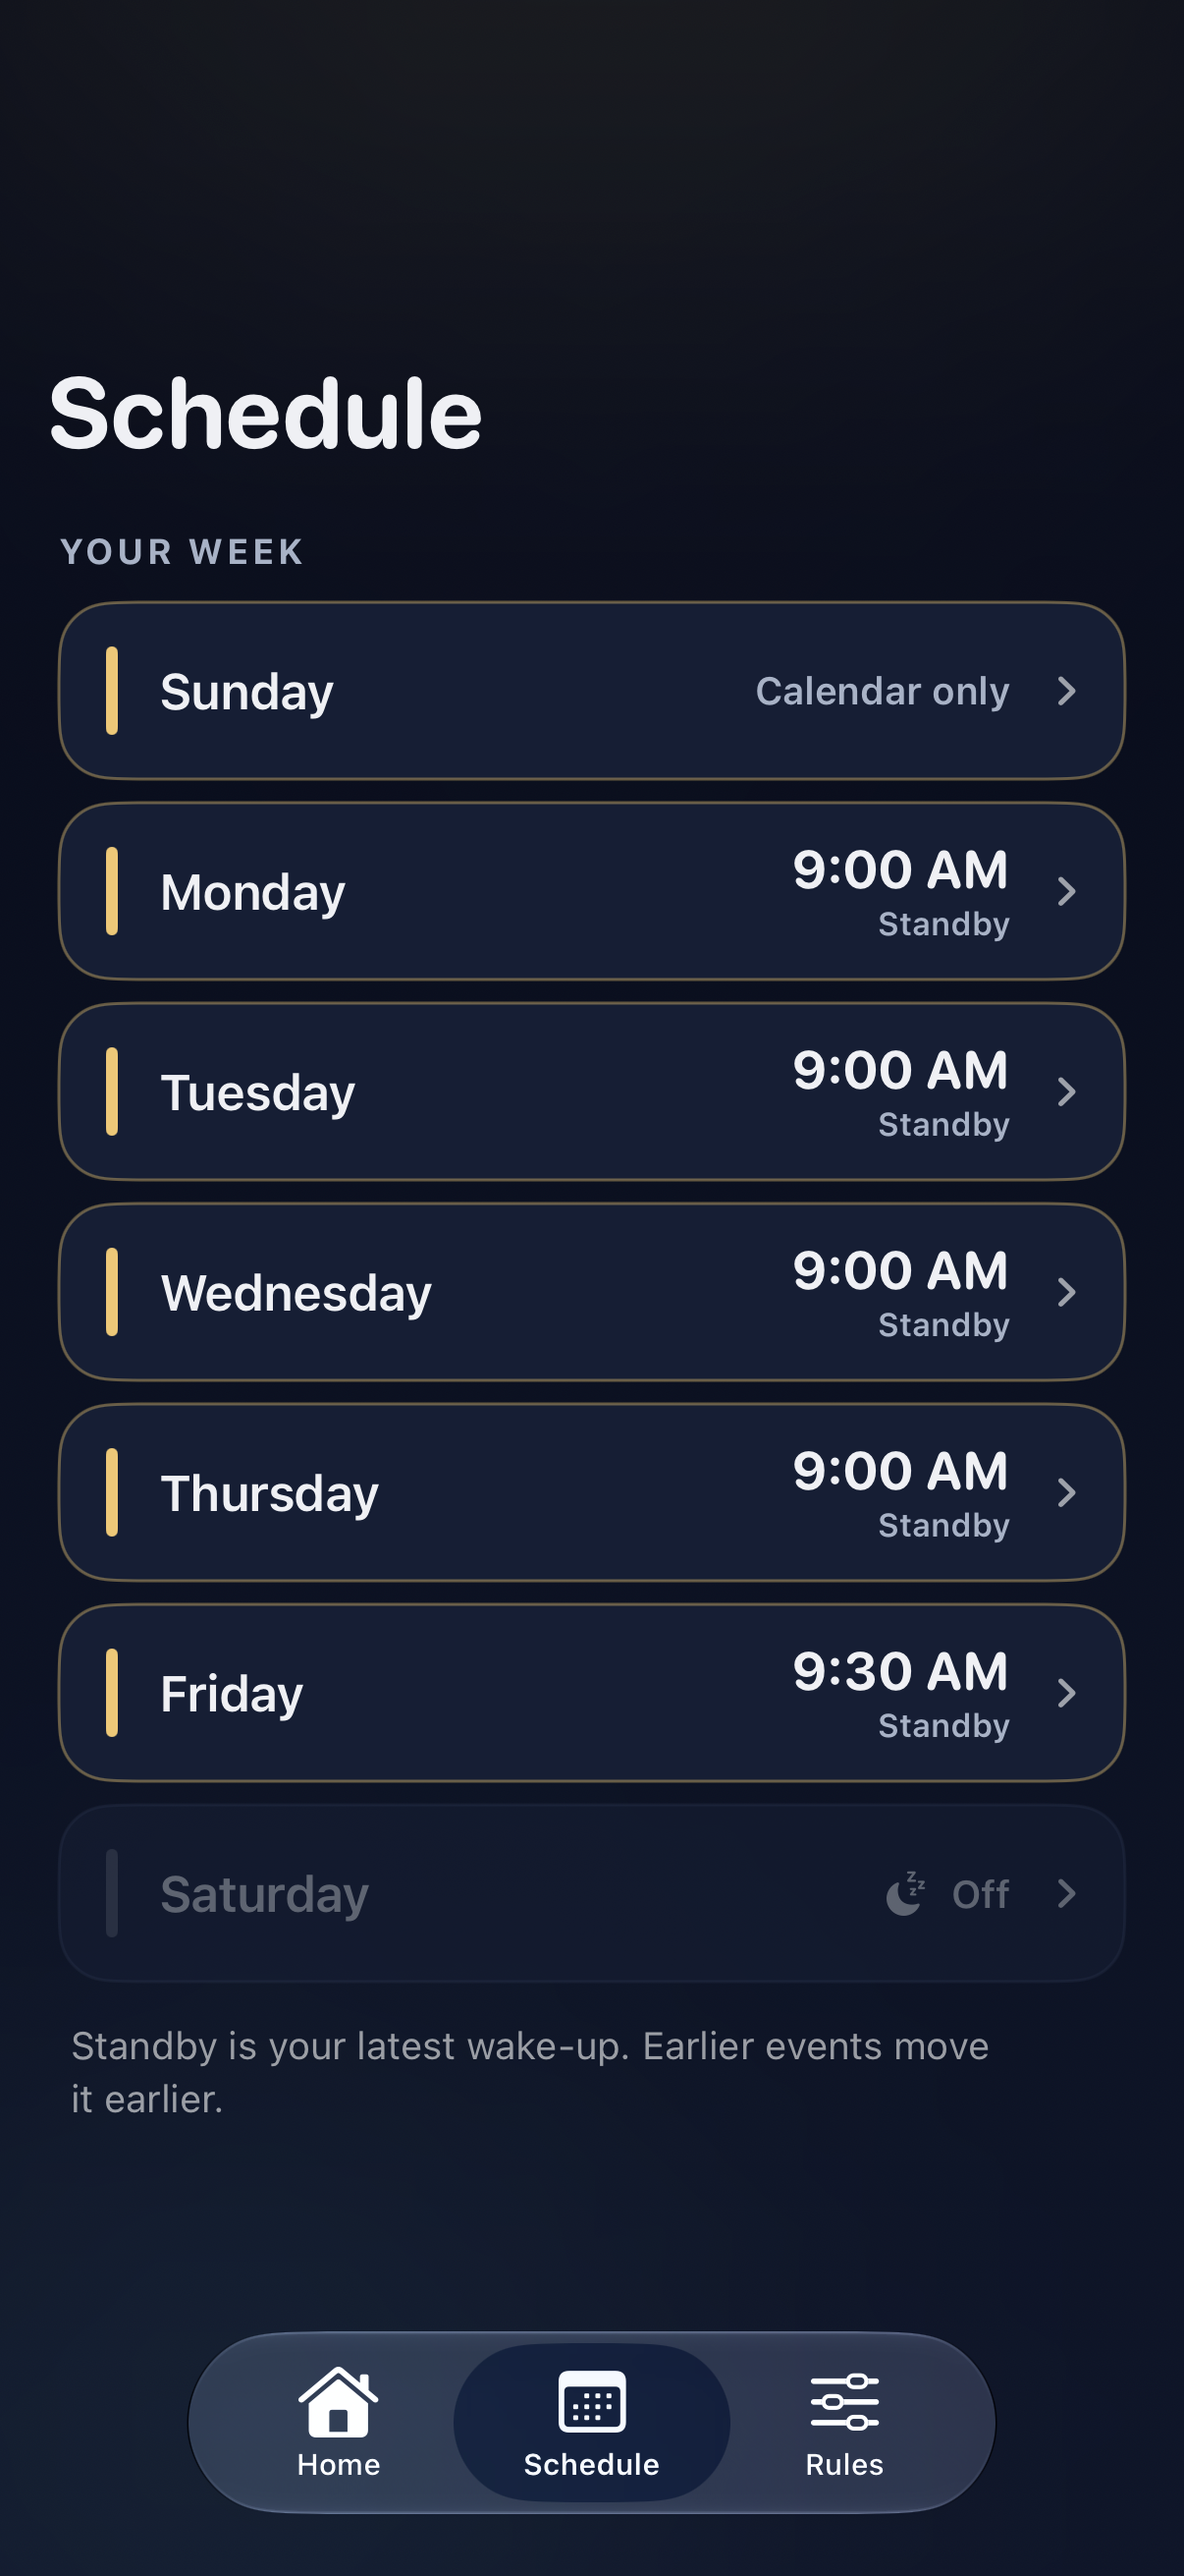
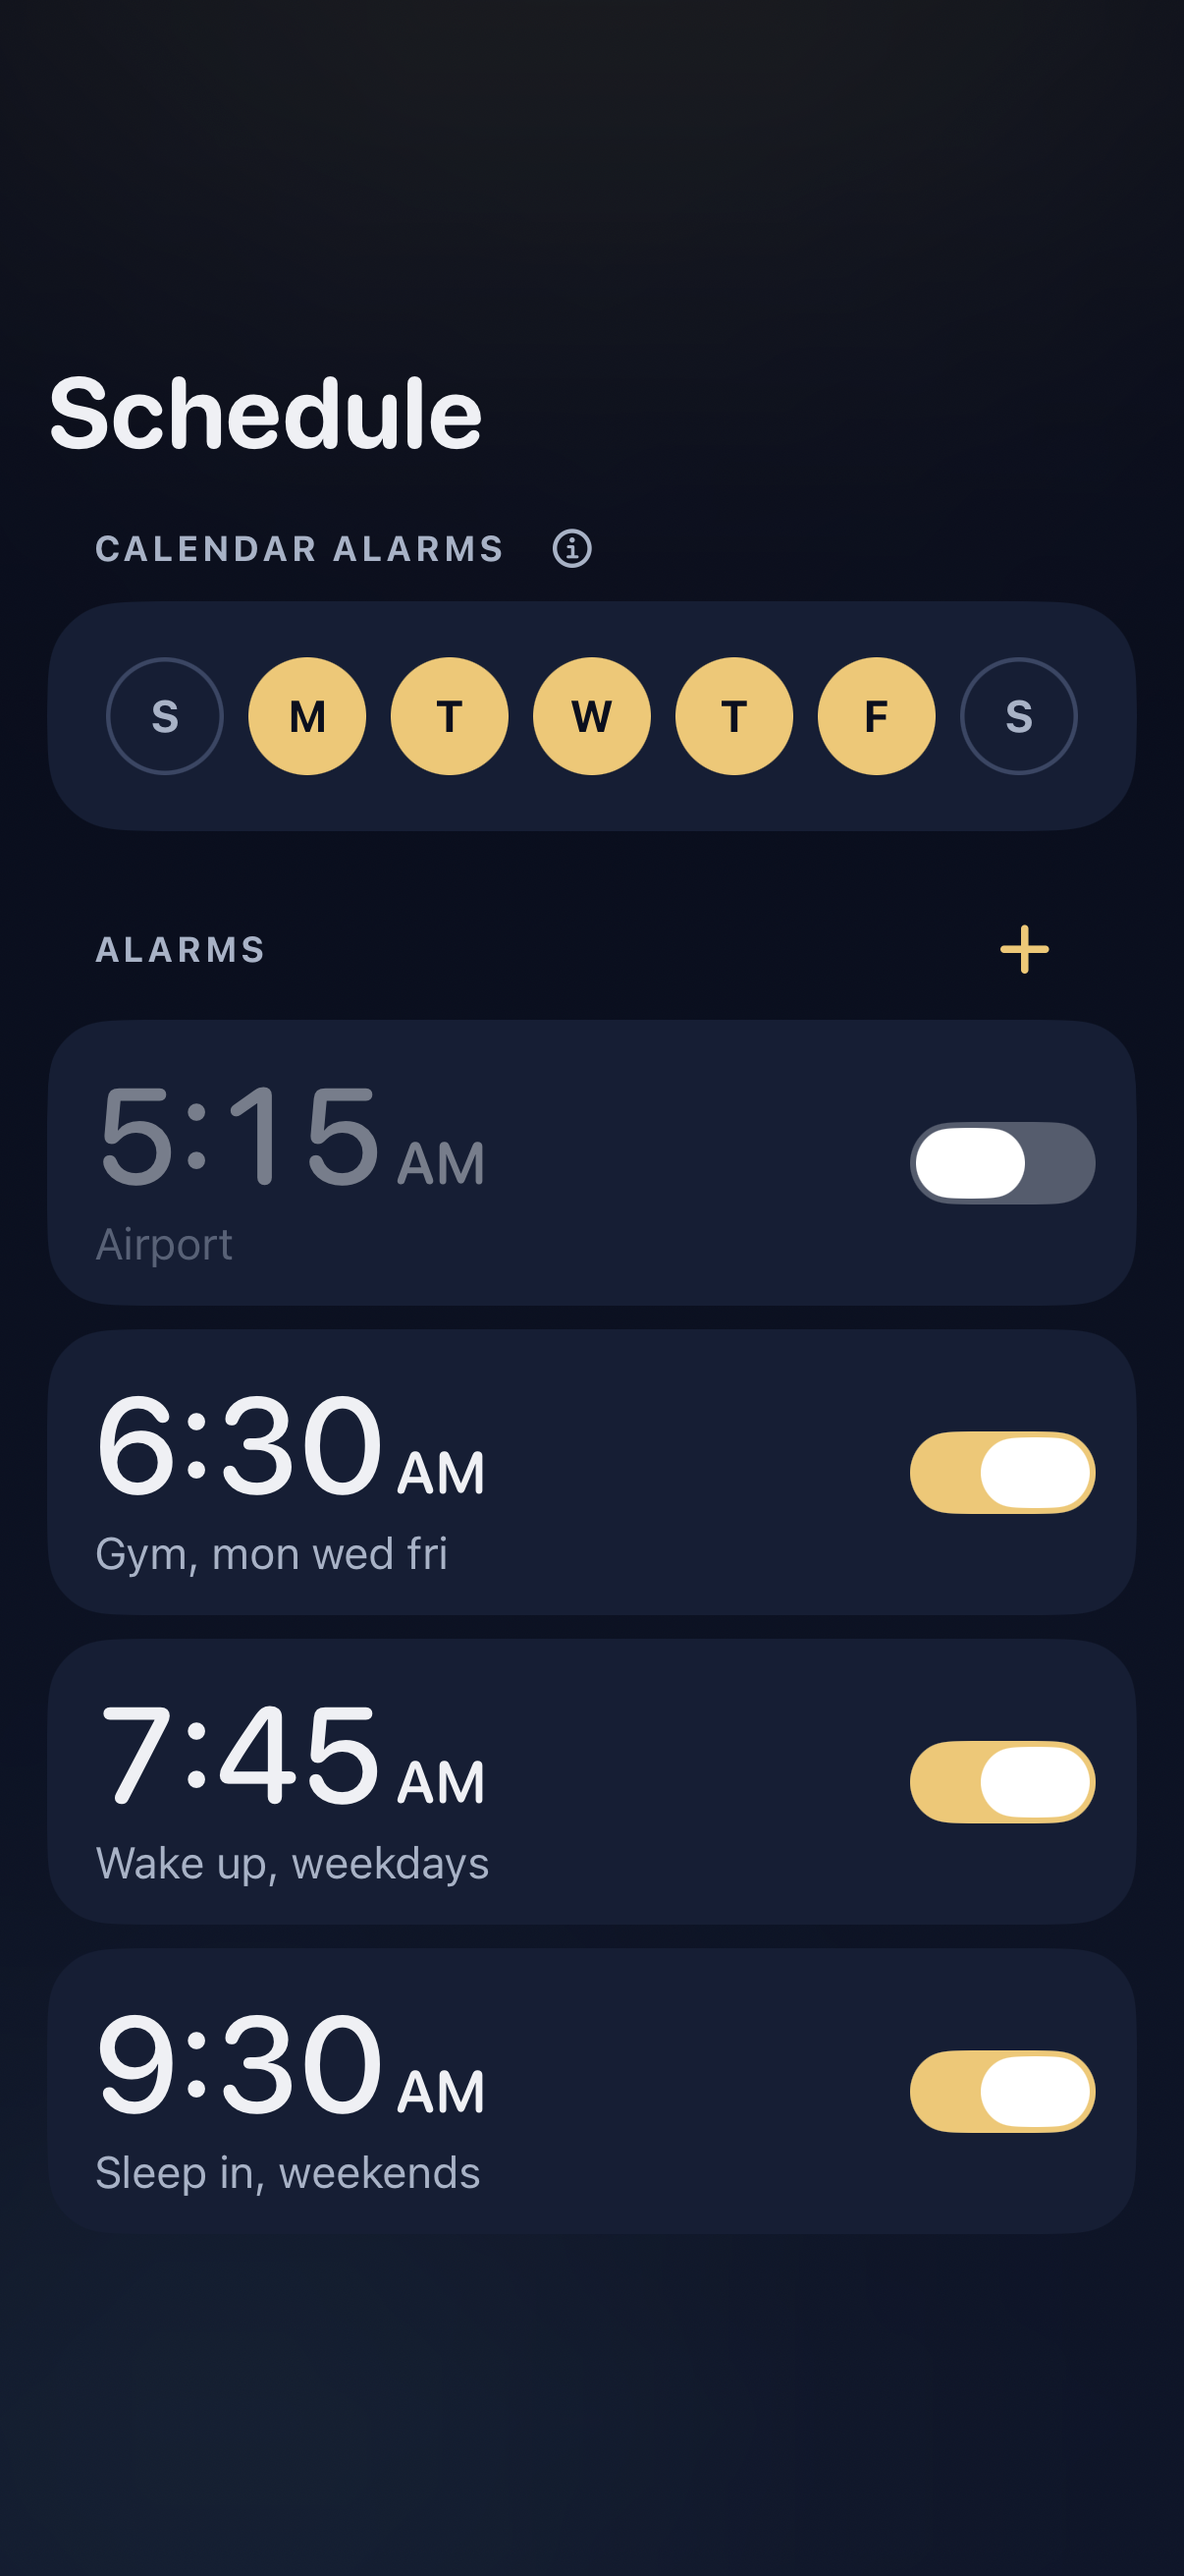
chore(app-store): screenshot 4 shows the Clock-style Schedule tab

diff --git a/app-store/source/screenshots/index.html b/app-store/source/screenshots/index.html
@@ -125,11 +125,11 @@ panels.push(['ink', () => `
   ${device(464, 1030, shot('editor'), .8, 4)}
 `]);
 
-/* 04 — Sleep in */
+/* 04 — Schedule */
 panels.push(['gold', () => `
-  ${head('04', 'Days off', 'No early plans?<br><i>Sleep in.</i>', 'A latest wake-up on quiet mornings. Days off stay silent.')}
-  <img src="OtterOverlook.png" style="position:absolute;width:380px;left:736px;top:780px;z-index:2">
-  ${device(160, 1078, shot('schedule'))}
+  ${head('04', 'Your schedule', 'Full control of<br>your <i>schedule.</i>', '')}
+  <img src="OtterOverlook.png" style="position:absolute;width:380px;left:736px;top:602px;z-index:2">
+  ${device(160, 900, shot('schedule'))}
 `]);
 
 const only = P.has('p') ? [+P.get('p')] : panels.map((_, i) => i);
